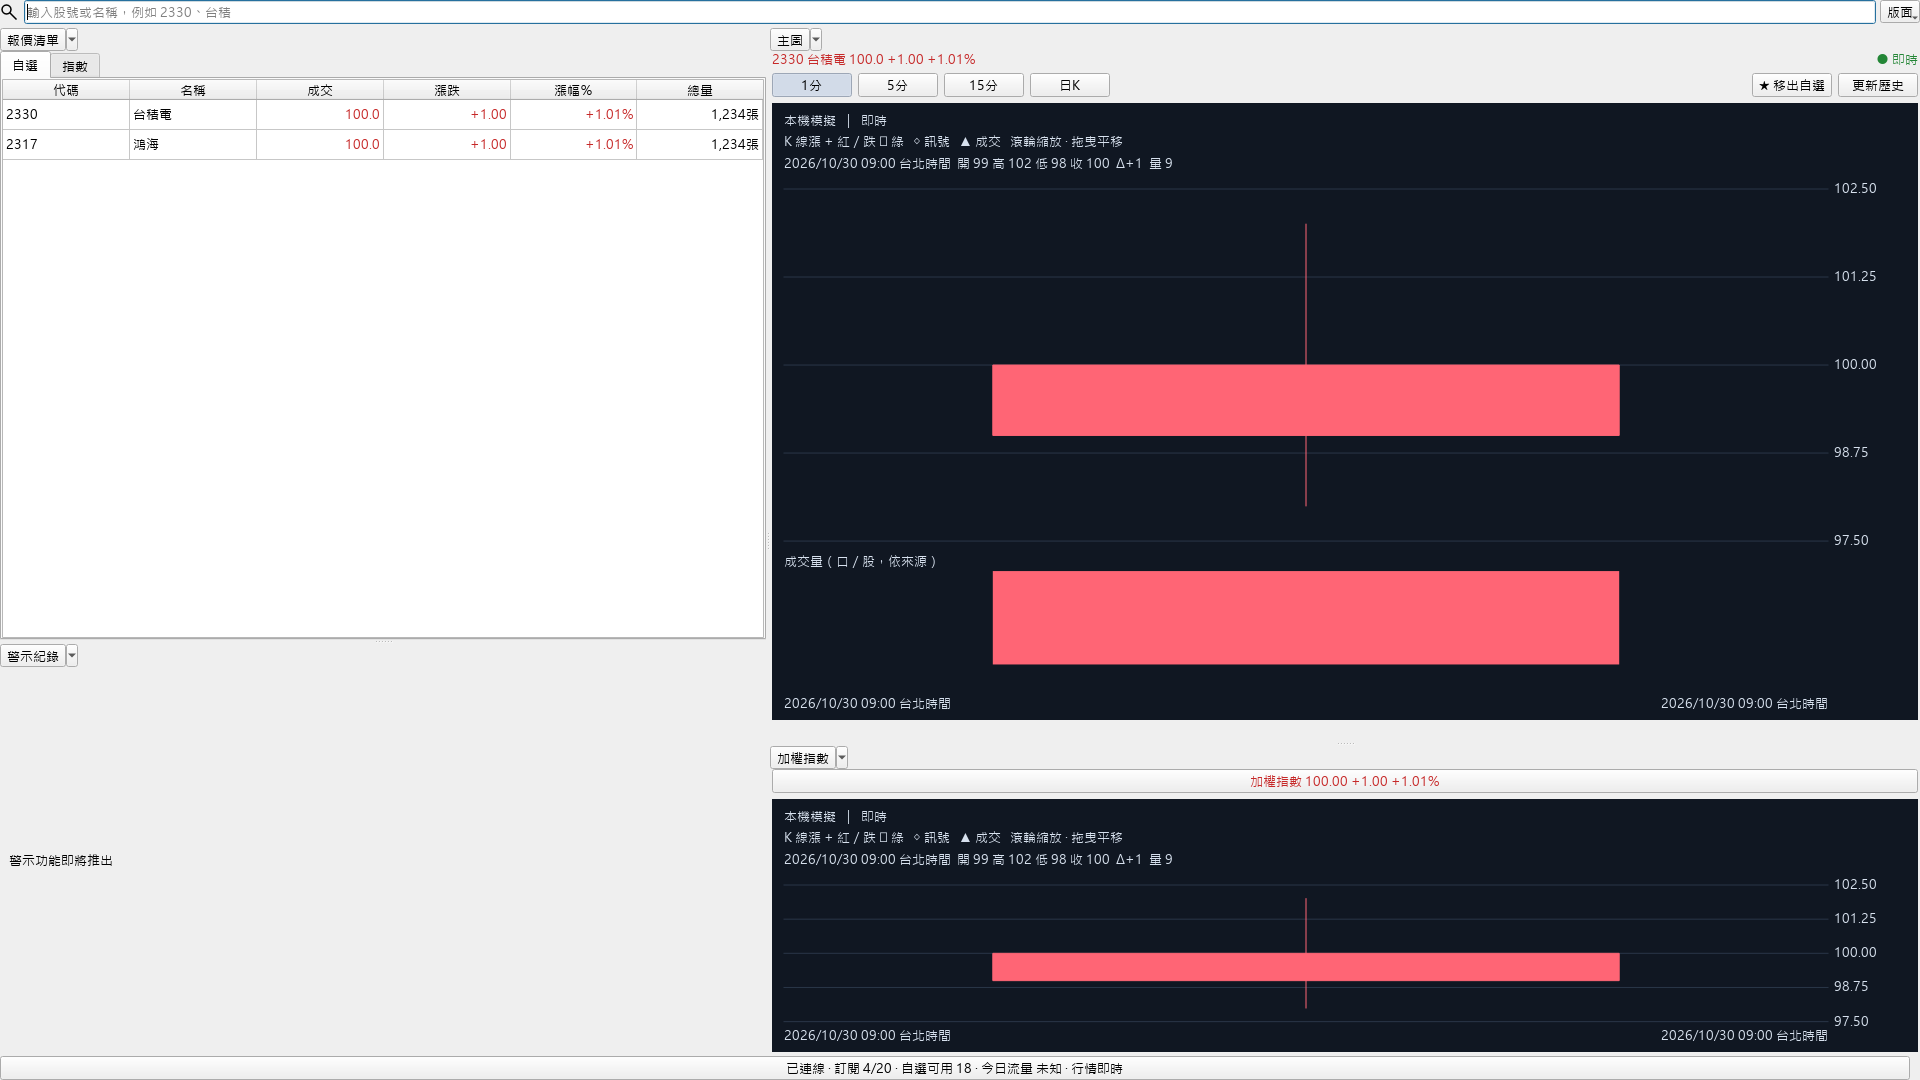
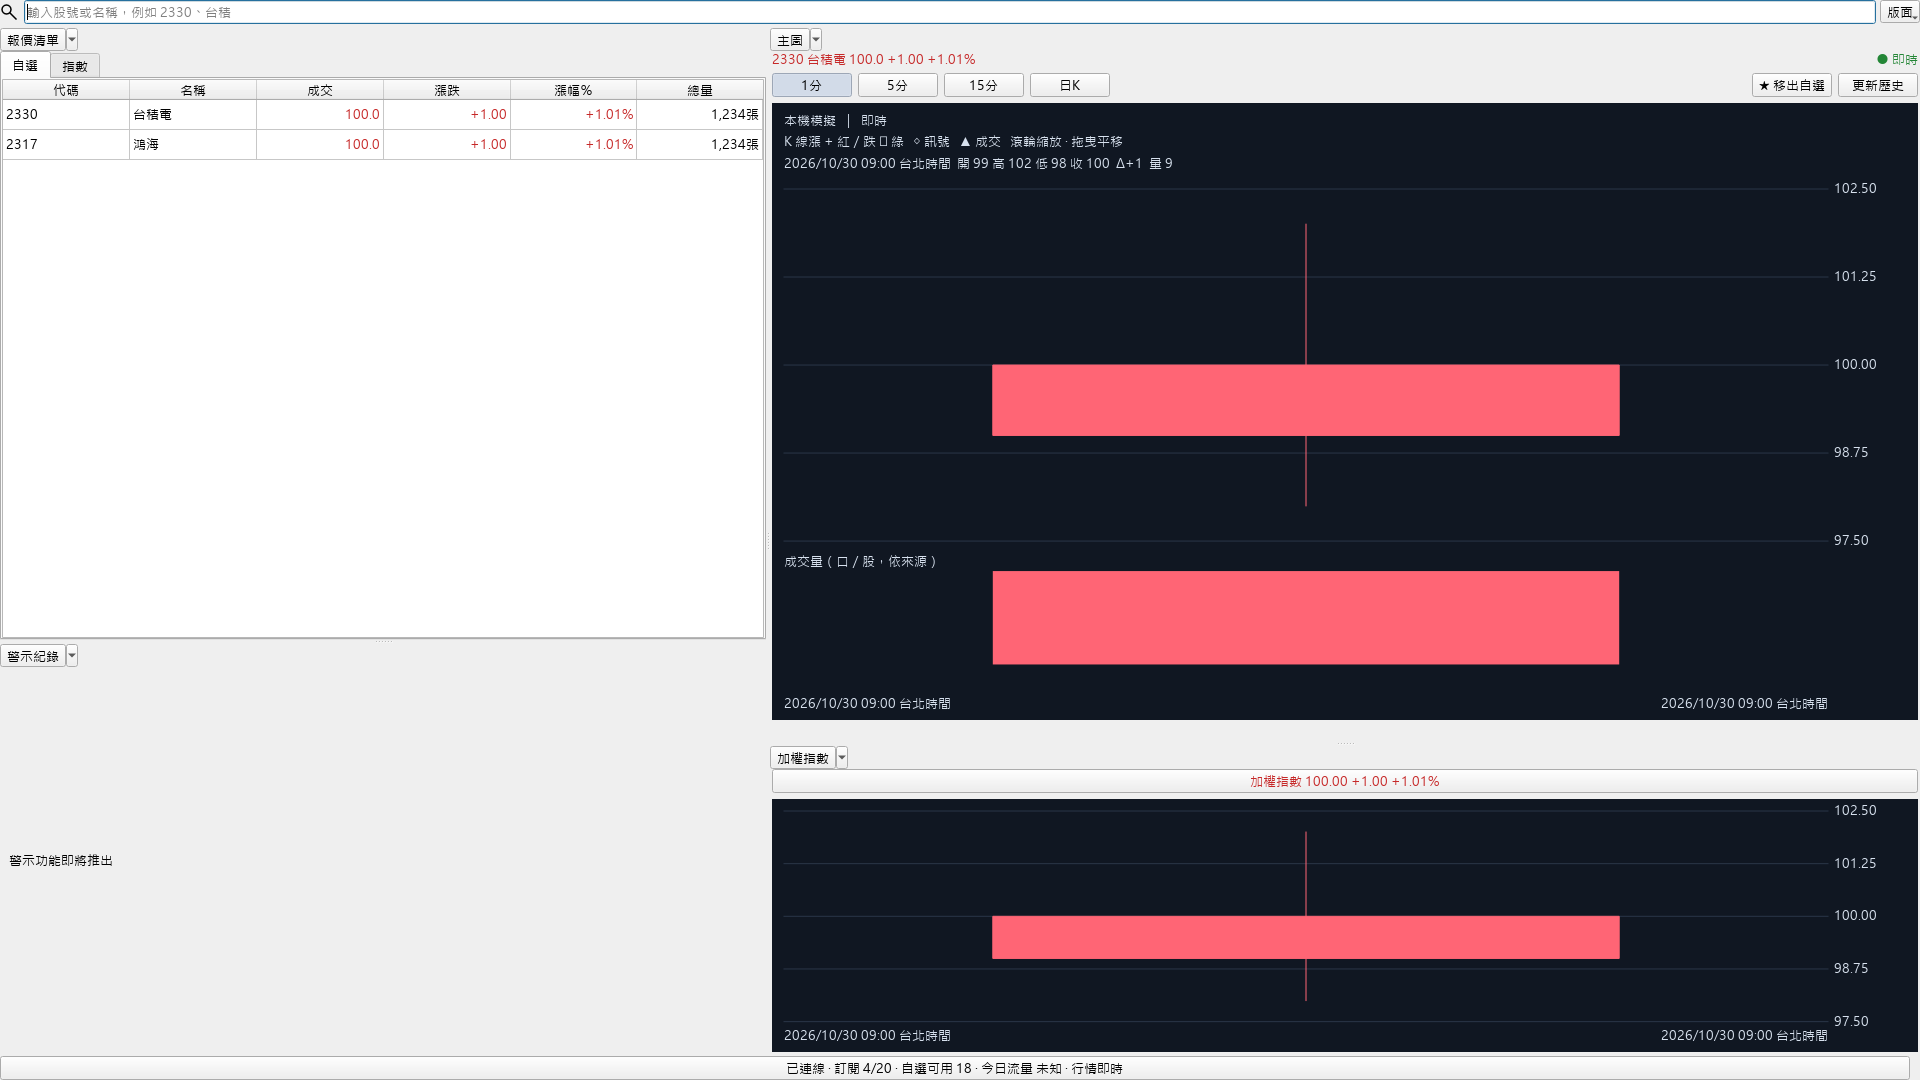
fix(m1-2): fit index mini chart and verify complete terminal window

diff --git a/tools/m1_terminal_snapshot.py b/tools/m1_terminal_snapshot.py
@@ -9,17 +9,20 @@ import json
 import os
 from pathlib import Path
 import time
+from types import SimpleNamespace
+from unittest.mock import patch
 
-from PySide6.QtCore import QThreadPool
+from PySide6.QtCore import QThreadPool, QRect
 from PySide6.QtGui import QFont, QFontDatabase
 from PySide6.QtTest import QTest
-from PySide6.QtWidgets import QApplication, QWidget, QVBoxLayout
+from PySide6.QtWidgets import QApplication, QWidget, QVBoxLayout, QScrollArea
 import shiboken6
 
 from desktop_app.components.charts import CandlestickChart
 from desktop_app.features.market.workspace import WorkspacePanel
 from desktop_app.features.trading.market_terminal import MarketTerminalWidget
 from desktop_app.features.trading.market_terminal_layout import PANEL_IDS, terminal_preset
+from desktop_app.features.trading.window import TradingWindow
 from quantlab.research_core.adapters.market_layout import LayoutStore
 from tests.test_market_terminal_ui import FakeFacade, STOCK, OTHER
 from tools.ui_snapshot import _save_png, page_metrics
@@ -66,10 +69,70 @@ def capture_terminal(out):
         shiboken6.delete(frame)
 
 
+def capture_window(out):
+    """Inspect the real TradingWindow shell using a projected logical monitor.
+
+    This only replaces the monitor rectangle, as existing geometry tests do;
+    actual widget sizing, styling, headers and the fit routine remain active.
+    """
+    app = QApplication.instance() or QApplication([])
+    app.setStyle('Fusion')
+    if os.name == 'nt':
+        for name in ('msjh.ttc', 'msjhbd.ttc'):
+            QFontDatabase.addApplicationFont(str(Path(os.environ['WINDIR']) / 'Fonts' / name))
+    app.setFont(QFont('Microsoft JhengHei UI', 10))
+    facade = FakeFacade((STOCK.instrument_id, OTHER.instrument_id))
+    terminal = MarketTerminalWidget(
+        facade,
+        CandlestickChart(),
+        facade.state,
+        layout_store=LayoutStore(panel_ids=PANEL_IDS, default_layout=terminal_preset()),
+        index_chart=CandlestickChart(show_volume=False),
+        panel_factory=WorkspacePanel,
+    )
+    window = TradingWindow(facade, facade.state, market_watch=terminal)
+    window.poll.stop()
+    terminal.select_instrument(STOCK.instrument_id)
+    out.mkdir(parents=True, exist_ok=True)
+    metrics = {}
+    try:
+        for width, height in ((1366, 768), (1920, 1080)):
+            screen = SimpleNamespace(availableGeometry=lambda: QRect(0, 0, width + 40, height + 80))
+            with patch.object(window, 'screen', return_value=screen):
+                window.resize(width, height)
+                window.navigation.setCurrentRow(2)
+                window.show()
+                deadline = time.monotonic() + 3
+                while terminal._requests and time.monotonic() < deadline:
+                    app.processEvents()
+                    QTest.qWait(5)
+                app.processEvents()
+                if terminal._requests:
+                    raise TimeoutError('Offline terminal window did not settle')
+                page = window.pages.currentWidget()
+                stem = f'window-{width}x{height}'
+                _save_png(window, out / f'{stem}.png', 1)
+                metrics[stem] = page_metrics(terminal)
+                metrics[stem].update(
+                    window_size=[window.width(), window.height()],
+                    terminal_size=[terminal.width(), terminal.height()],
+                    chart_size=[terminal.chart.width(), terminal.chart.height()],
+                    outer_scroll_areas=len(page.findChildren(QScrollArea)),
+                )
+        (out / 'window-metrics.json').write_text(json.dumps(metrics, ensure_ascii=False, indent=2) + '\n', encoding='utf-8')
+    finally:
+        window.poll.stop()
+        QThreadPool.globalInstance().waitForDone(3000)
+        app.processEvents()
+        shiboken6.delete(window)
+
+
 def main():
     parser = argparse.ArgumentParser(description=__doc__)
     parser.add_argument('--out', type=Path, default=Path('docs/analysis/m1-terminal'))
-    capture_terminal(parser.parse_args().out)
+    parser.add_argument('--window', action='store_true', help='capture the real TradingWindow shell with a fake facade')
+    args = parser.parse_args()
+    (capture_window if args.window else capture_terminal)(args.out)
 
 
 if __name__ == '__main__':

diff --git a/tests/test_market_terminal_ui.py b/tests/test_market_terminal_ui.py
@@ -8,8 +8,9 @@ import tempfile
 import time
 from types import SimpleNamespace
 import unittest
+from unittest.mock import patch
 
-from PySide6.QtCore import Qt, QThreadPool
+from PySide6.QtCore import Qt, QThreadPool, QRect
 from PySide6.QtTest import QTest
 from PySide6.QtWidgets import QApplication, QAbstractButton, QScrollArea
 import shiboken6
@@ -19,6 +20,7 @@ from desktop_app.features.market.workspace import WorkspacePanel
 from desktop_app.features.trading.market_terminal import MarketTerminalWidget
 from desktop_app.features.trading.market_terminal_layout import PANEL_IDS, terminal_preset
 from desktop_app.features.trading.market_terminal_rows import diagnostic_text, market_summary, quote_values
+from desktop_app.features.trading.window import TradingWindow
 from desktop_app.strings.catalog import ui_text
 from quantlab.research_core.adapters.market_layout import LayoutStore, FILE_NAME
 from quantlab.trading.application.contracts import MarketHealthView, MarketSeriesPage, MarketWatchView, OverviewMarketSummary, UiReceipt, UiState
@@ -132,7 +134,12 @@ class TerminalTests(unittest.TestCase):
         self.facade = FakeFacade()
         self.store = LayoutStore(panel_ids=PANEL_IDS, default_layout=terminal_preset())
         self.widget = MarketTerminalWidget(
-            self.facade, CandlestickChart(), self.facade.state, layout_store=self.store, index_chart=CandlestickChart(), panel_factory=WorkspacePanel
+            self.facade,
+            CandlestickChart(),
+            self.facade.state,
+            layout_store=self.store,
+            index_chart=CandlestickChart(show_volume=False),
+            panel_factory=WorkspacePanel,
         )
         self.widget.resize(1366, 768)
         self.widget.show()
@@ -322,6 +329,8 @@ class TerminalTests(unittest.TestCase):
             self.assertFalse((Path(folder) / FILE_NAME).exists())
 
     def test_accessible_controls_and_status_diagnostics(self):
+        self.assertEqual(self.widget.chart.price_rect.top(), 86)
+        self.assertEqual(self.widget.index_chart.price_rect.top(), 12)
         for control in (
             *self.widget.findChildren(QAbstractButton),
             self.widget.search.input,
@@ -341,6 +350,34 @@ class TerminalTests(unittest.TestCase):
         self.assertNotIn('+00:00', text)
         self.assertIn(ui_text('terminal.source_sim'), text)
         self.assertEqual(quote_values(FIXED_INDICES[0], quote(FIXED_INDICES[0]))[-1], ui_text('watch.unknown'))
+
+    def test_real_trading_window_contains_terminal_at_both_sizes(self):
+        window = TradingWindow(self.facade, self.facade.state, market_watch=self.widget)
+        window.poll.stop()
+        try:
+            for width, height in ((1366, 768), (1920, 1080)):
+                screen = SimpleNamespace(availableGeometry=lambda: QRect(0, 0, width + 40, height + 80))
+                with patch.object(window, 'screen', return_value=screen):
+                    window.resize(width, height)
+                    window.navigation.setCurrentRow(2)
+                    window.show()
+                    self.wait_for(lambda: not self.widget._requests)
+                    self.app.processEvents()
+                    self.assertEqual(window.size().toTuple(), (width, height))
+                    self.assertFalse(window.pages.currentWidget().findChildren(QScrollArea))
+                    self.assertGreater(self.widget.chart.height(), 180)
+                    self.assertGreater(self.widget.chart.width(), 500)
+                    self.assertLessEqual(self.widget.workspace.splitter.width(), self.widget.width())
+                    self.assertFalse(self.widget.table.horizontalScrollBar().isVisible())
+                    self.assertLessEqual(
+                        self.widget.table.columnViewportPosition(5) + self.widget.table.columnWidth(5), self.widget.table.viewport().width() + 1
+                    )
+        finally:
+            window.poll.stop()
+            QThreadPool.globalInstance().waitForDone(3000)
+            self.app.processEvents()
+            self.widget.setParent(None)
+            shiboken6.delete(window)
 
 
 if __name__ == '__main__':

diff --git a/desktop_app/components/charts.py b/desktop_app/components/charts.py
@@ -114,7 +114,8 @@ class CandlestickChart(_ChartAnnotationMixin, _order_lines.PaperOrderChartMixin,
     @property
     def price_rect(self):
         lower = 0.55 if self.panes else 0.71 if self.show_volume else 0.88
-        return QRectF(12, 86, max(40, self.width() - 102), max(50, self.height() * lower - 86))
+        top = 86 if self.show_volume else 12
+        return QRectF(12, top, max(40, self.width() - 102), max(50, self.height() * lower - top))
 
     @property
     def visible_range(self):
@@ -304,14 +305,15 @@ class CandlestickChart(_ChartAnnotationMixin, _order_lines.PaperOrderChartMixin,
             p.drawText(QPointF(x, y), str(s))
 
         fm = p.fontMetrics()
-        text(
-            12,
-            22,
-            fm.elidedText(ui_text('charts.paint_event.title').format(self.source_label, self.status_label), Qt.TextElideMode.ElideRight, self.width() - 24),
-        )
-        text(12, 43, _theme.chart_legend(self))
-        if self.paper_orders.notice:
-            text(12, 81, self.paper_orders.notice)
+        if self.show_volume:
+            text(
+                12,
+                22,
+                fm.elidedText(ui_text('charts.paint_event.title').format(self.source_label, self.status_label), Qt.TextElideMode.ElideRight, self.width() - 24),
+            )
+            text(12, 43, _theme.chart_legend(self))
+            if self.paper_orders.notice:
+                text(12, 81, self.paper_orders.notice)
         self.last_rendered_bar_count = 0
         if self.error or not self.bars:
             self.setToolTip('')

diff --git a/desktop_app/components/chart_geometry.py b/desktop_app/components/chart_geometry.py
@@ -16,7 +16,8 @@ def _prepare_chart_geometry(self, fm, text, start, end, visible, r):
         self.price_text(d['change_text']),
         d['volume'] if d['volume'] is not None else ui_text('charts.paint_event.unknown'),
     ) + (ui_text('charts.paint_event.incomplete') if d['partial'] else '')
-    text(12, 65, fm.elidedText(detail, Qt.TextElideMode.ElideRight, self.width() - 24))
+    if self.show_volume:
+        text(12, 65, fm.elidedText(detail, Qt.TextElideMode.ElideRight, self.width() - 24))
     low = min(float(b.low) for b in visible)
     high = max(float(b.high) for b in visible)
     extras = [float(v) for seq in self.overlays.values() for v in seq[start:end] if v is not None]

diff --git a/docs/design/m1-terminal-notes.md b/docs/design/m1-terminal-notes.md
@@ -114,3 +114,16 @@ survive live updates. Clicking an alert for the instrument already on screen
 still focuses its event time even when the bar data has not changed. The terminal
 UI suite now has 11 passing tests. GitNexus returned UNKNOWN for the injected
 widget/method references; direct composition and test references were checked.
+
+Full TradingWindow capture exposed a 90px index chart with an 86px internal
+header. The new `show_volume=False` mode now omits that redundant header/detail
+and starts its price viewport at 12px; the panel's external index title supplies
+the quote information. Default charts still start at 86px and keep all volume,
+header, paper and drawing behavior. Pre-edit GitNexus on the refreshed index
+reported **CRITICAL** for CandlestickChart (28 dependents,119 processes) and
+_prepare_chart_geometry (11 dependents,119 processes). This warning was reported
+before editing. Mitigation: the default branch is retained and only the new index
+mode changes; unchanged suites passed: test_desktop_charts 12,
+test_lb_b8_drawings 12, test_lb_b10_paper_orders 22. The real-window geometry
+regression additionally verifies both requested sizes with six visible columns
+and no outer scroll area. Native screen/DPI and owner visual checks remain pending.

diff --git a/docs/analysis/m1-terminal/README.md b/docs/analysis/m1-terminal/README.md
@@ -10,4 +10,15 @@ These images verify layout only and are not evidence of actual broker data.
 - [Metrics](metrics.json): both sizes have zero unlabeled inputs and no outer
   scroll area; chart controls and six quote columns remain visible.
 
+Complete shell captures use `python -m tools.m1_terminal_snapshot --window` and
+the real TradingWindow with a fake facade and projected logical monitor geometry:
+
+- [Full window 1366 × 768](window-1366x768.png)
+- [Full window 1920 × 1080](window-1920x1080.png)
+- [Window metrics](window-metrics.json)
+
+Both full-window sizes have no outer scroll area. The shared chart's new
+`show_volume=False` index mode removes its redundant internal title and OHLC
+header so the mini chart remains readable inside the available panel height.
+
 Real App visual inspection remains pending owner confirmation.
